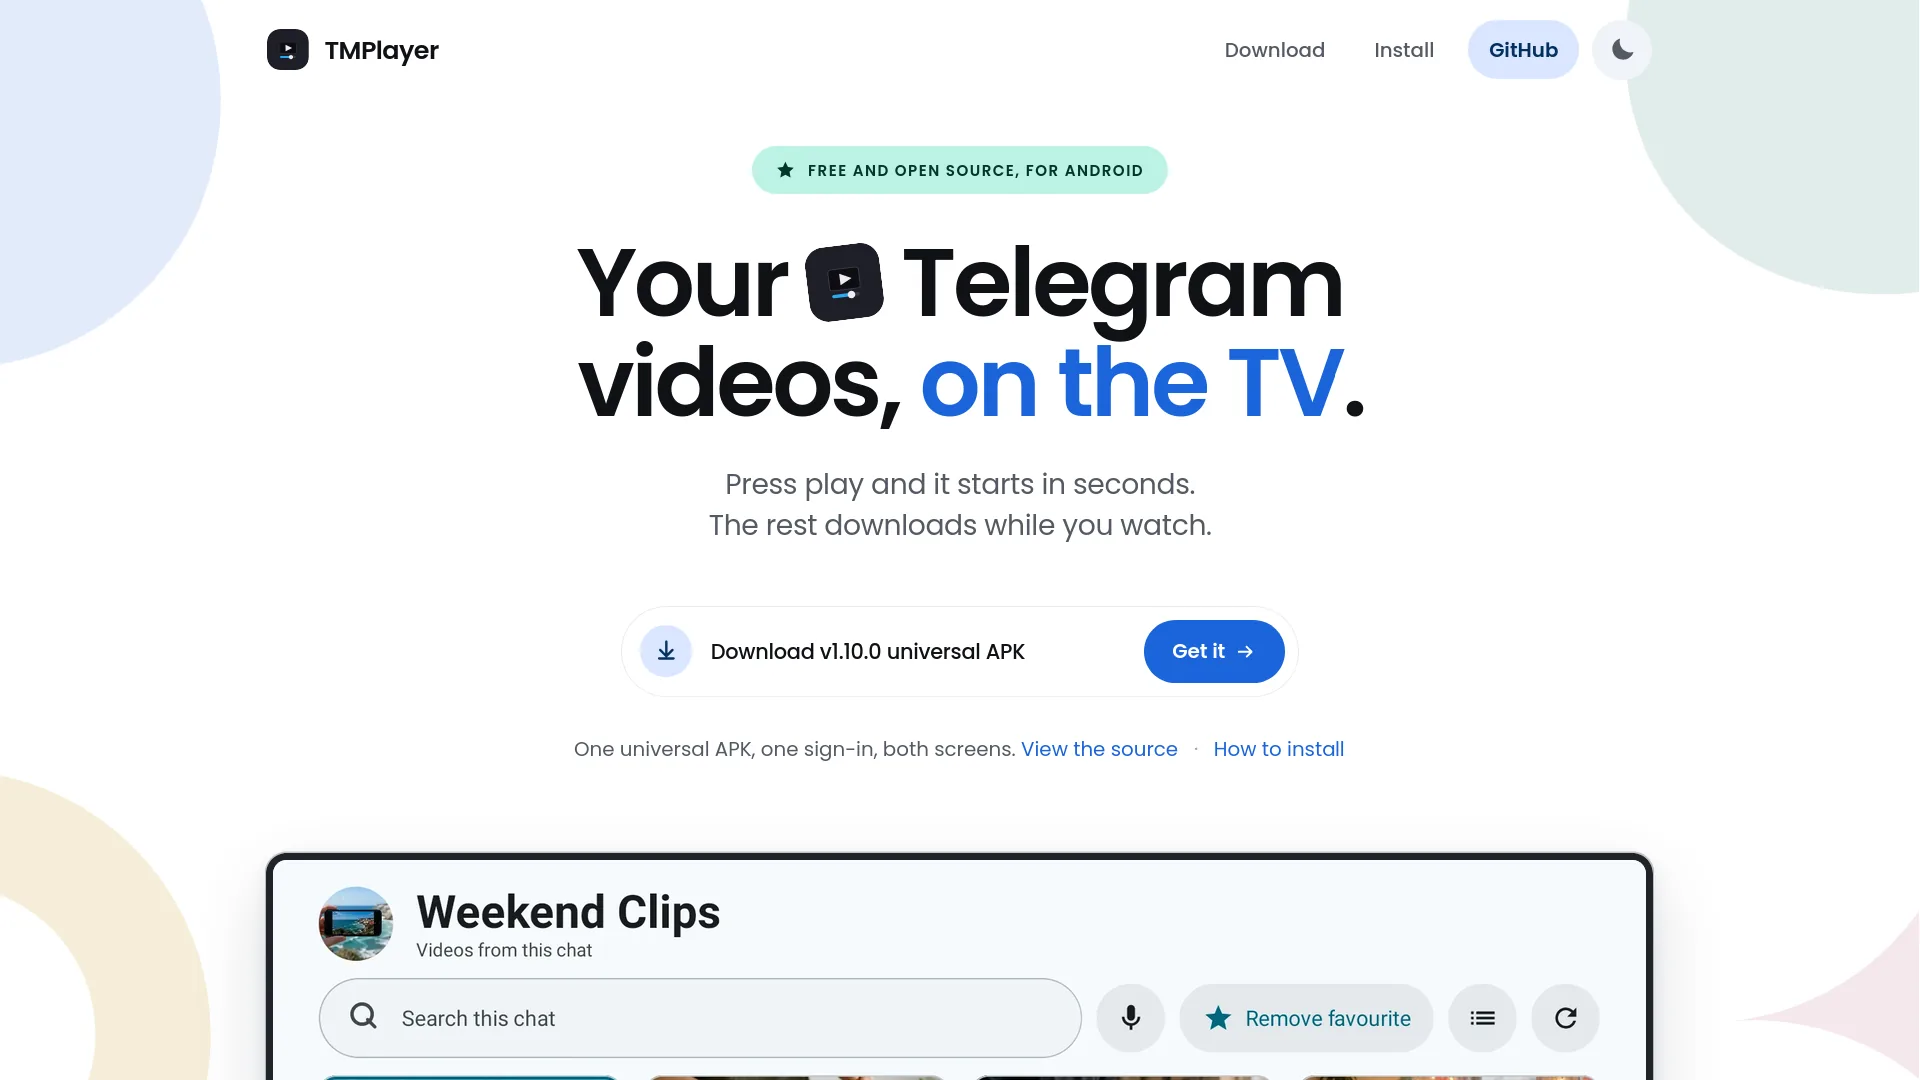
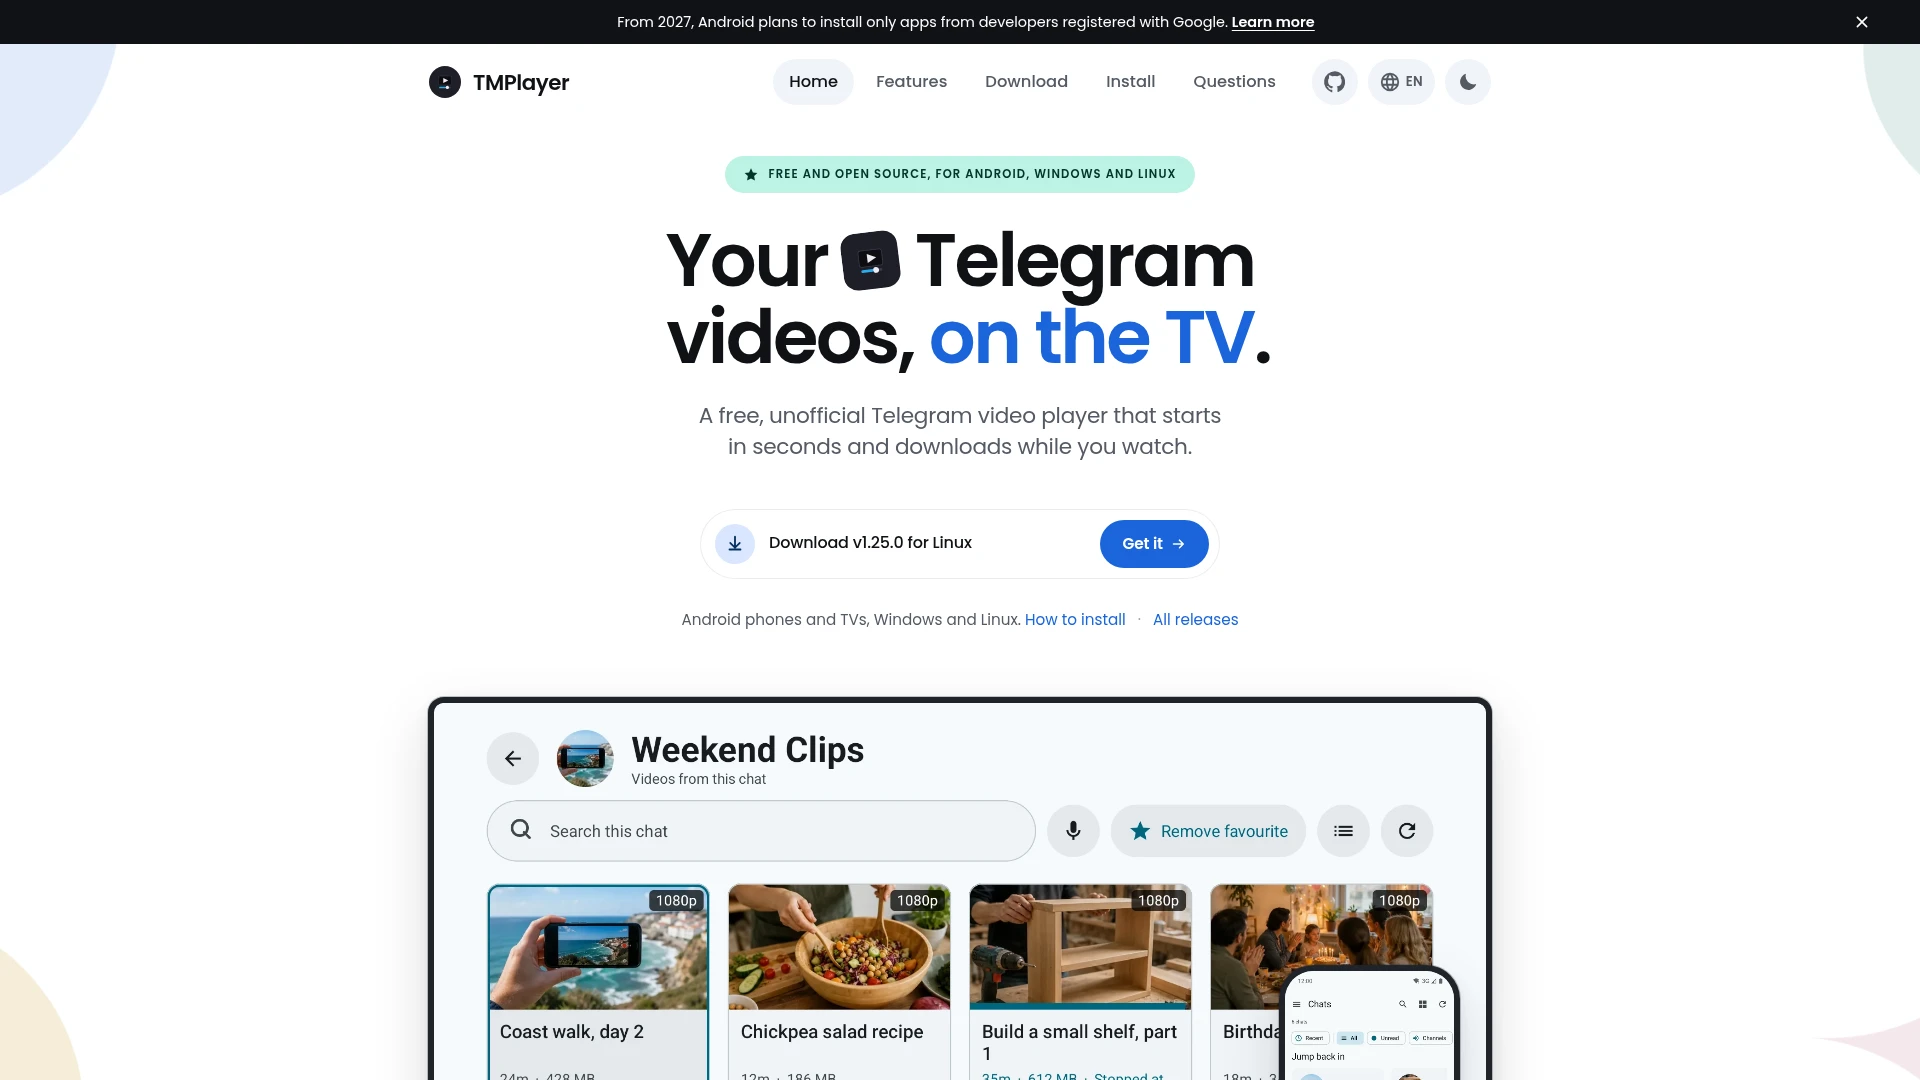
content: TapTL joins the projects, and TMPlayer covers its desktop app
TapTL is the live English overlay for Android games, with its site, the
Valorant settings before and after, and a place on the open-source list.
TMPlayer now says Windows and Linux, has a fresh site screenshot plus TV
and desktop shots, and drops the 256-test claim that no longer held.

Changed region(s): [[0.0, 0.2139, 0.875, 1.0], [0.0, 0.0, 1.0, 0.3361], [0.375, 0.1222, 0.625, 0.1833]]

diff --git a/app/components/sections/OpenSource.tsx b/app/components/sections/OpenSource.tsx
@@ -22,8 +22,17 @@ const items: Item[] = [
     href: "/projects/tmplayer",
     internal: true,
     description:
-      "Telegram video player for Android TV and phone. Signs in with a QR code and streams from your own chats while the file is still downloading.",
+      "Telegram video player for Android TV, phones, Windows and Linux. Signs in with a QR code and streams from your own chats while the file is still downloading.",
     meta: "Kotlin · Jetpack Compose · TDLib · Media3 · GPL-3.0",
+  },
+  {
+    name: "TapTL",
+    logo: "/logos/taptl.png",
+    href: "/projects/taptl",
+    internal: true,
+    description:
+      "Live on-screen translator for Android games. Reads the text on screen and draws English over it, offline, with no root.",
+    meta: "Kotlin · Jetpack Compose · ML Kit · MIT",
   },
   {
     name: "Resume Builder",

diff --git a/app/data/updated.ts b/app/data/updated.ts
@@ -9,9 +9,9 @@ export const CONTENT_DATES = {
   home: "2026-09-19",
   hire: "2026-09-19",
   locations: "2026-09-18",
-  projects: "2026-09-19",
+  projects: "2026-10-12",
   about: "2026-09-19",
-  openSource: "2026-09-18",
+  openSource: "2026-10-12",
   blog: "2026-09-19",
 } as const;
 
